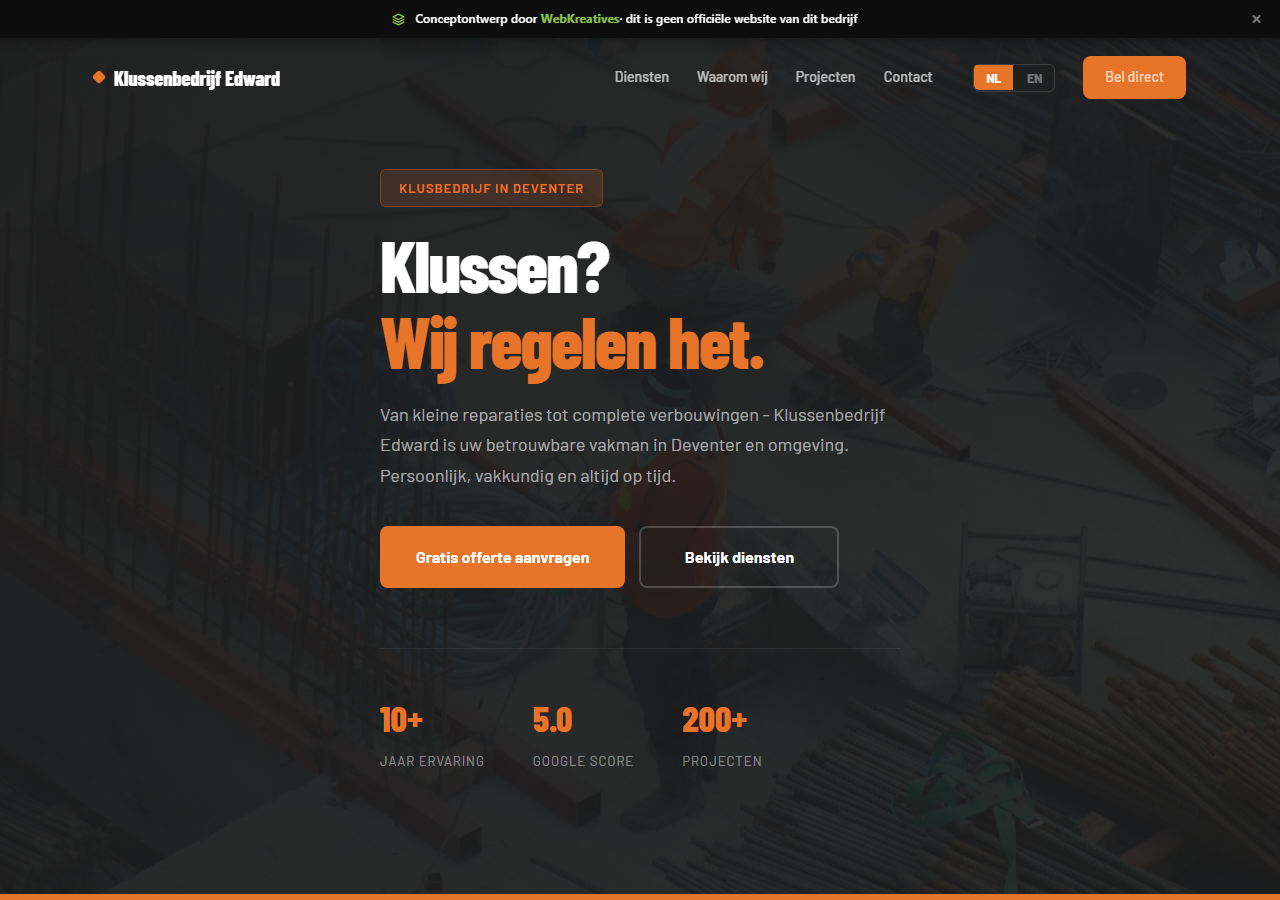
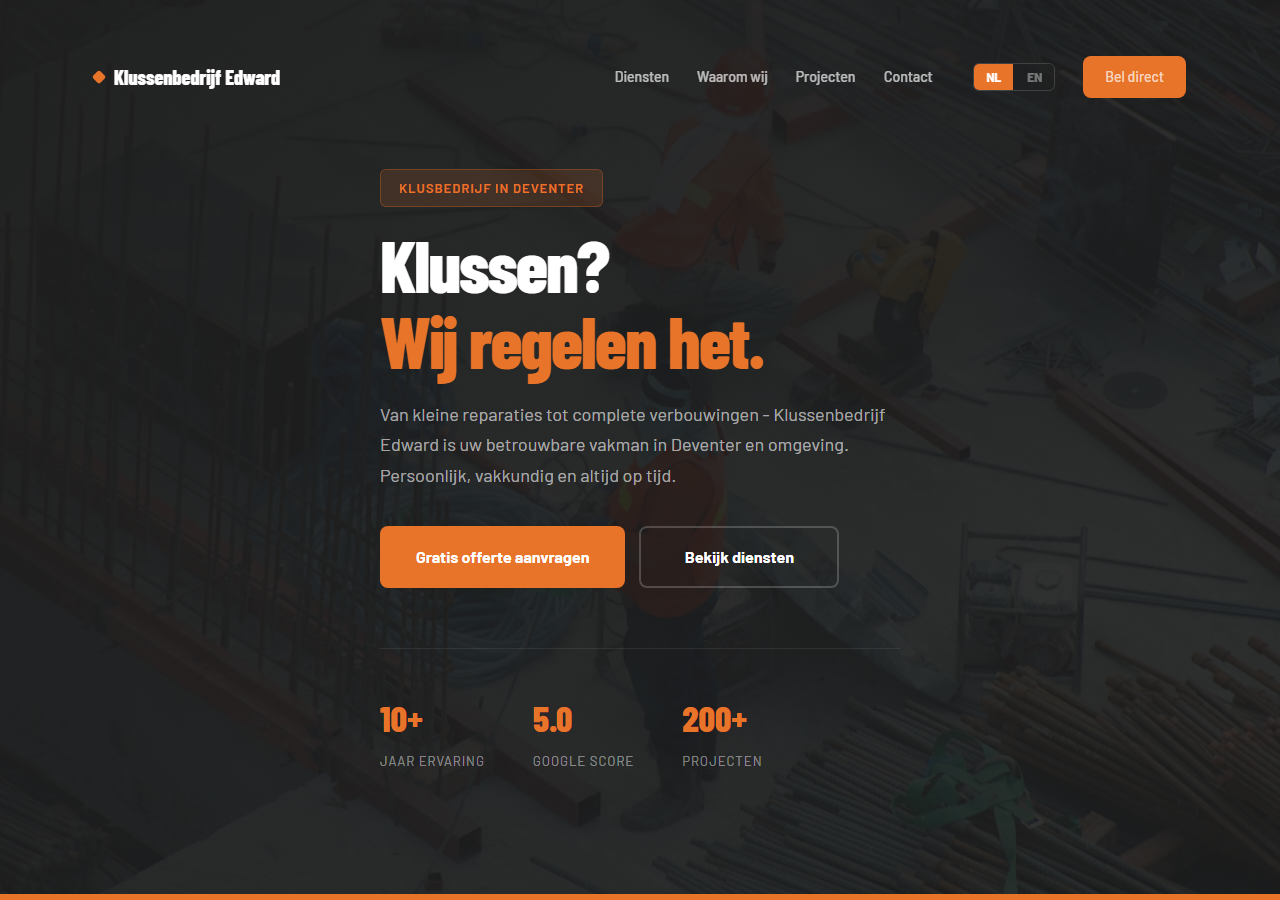
Taking a new screenshot for the Portfolio part Making them in English.

diff --git a/tools/take-screenshots.js b/tools/take-screenshots.js
@@ -3,7 +3,7 @@ const path = require('path');
 const fs = require('fs');
 
 const BASE = 'D:/.openclaw/Openclaw/projects/04-WebKreatives/client-projects';
-const OUT  = 'D:/.openclaw/Openclaw/projects/04-WebKreatives/test/screenshots';
+const OUT  = 'D:/.openclaw/Openclaw/projects/04-WebKreatives/assets/screenshots';
 
 const sites = [
   'de-groot-accountants',
@@ -28,6 +28,7 @@ const sites = [
     try {
       await page.goto(url, { waitUntil: 'domcontentloaded', timeout: 15000 });
       await page.waitForTimeout(2000);
+      await page.evaluate(() => { const b = document.getElementById('wkBanner'); if (b) b.style.display = 'none'; });
       const outPath = path.join(OUT, s + '.png');
       await page.screenshot({ path: outPath, clip: { x: 0, y: 0, width: 1280, height: 900 } });
       console.log('OK  ' + s);
